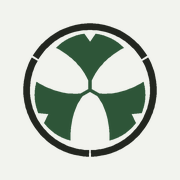
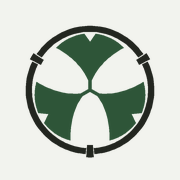
fix(brand): vòng tre có vành đốt, không còn là vòng tròn đứt nét
Anh nhận ra vòng đen hết giống thân tre. Đúng: hình chỉ là ba cung tròn
cách nhau bằng khe trống, chất "tre" trước đây do MÀU 枯竹 gánh. Bỏ màu đi
thì còn lại một vòng tròn đứt nét.

Thêm vành đốt (節) ở ba chỗ nối: một dải cung phình ra cả trong lẫn ngoài
so với thân, ngăn với thân bằng hai khe mảnh. Đây mới là dấu hiệu làm người
xem nhận ra tre, và nó đọc được ở cả cỡ 52px của đầu trang.

Đã thử bốn mức phình; chọn mức rõ nhất mà vòng vẫn chắc. Mức mảnh hơn thì
ở 52px không thấy gì, mức phình hơn nữa thì thân tre trông yếu.

Vành đốt là chỗ rộng nhất nên nó quyết định cỡ vòng: giới hạn 49,5 trên
khung 100×100. Lần thử đầu để 51,6 nên vành đốt bị cắt mất ở mép khung.

Mask của bản tự vẽ nét ở trang chủ nới ra theo (r 46,6 → 45, nét 10 → 11)
để phủ hết vành đốt, không thì phần trong của đốt không hiện ra.

Favicon 16–32px giữ bản ba cung trơn (plain_gap) vì ở cỡ đó vành đốt mảnh
hơn một pixel. apple-touch-icon 180px thì dùng bản đầy đủ.

Changed region(s): [[0.1111, 0.1111, 0.8889, 0.8889]]

diff --git a/tools/brand/marks.py b/tools/brand/marks.py
@@ -35,20 +35,44 @@ def polar(angle_deg: float, radius: float) -> tuple[float, float]:
 
 
 # ── Vòng tre 竹輪 ─────────────────────────────────────────────────────────────
-def bamboo_ring(r_out: float = 49.0, r_in: float = 44.2, nodes=(-30, 90, 210), gap: float = 2.6) -> str:
-    """Ba đoạn thân tre, cách nhau bằng khe đốt (節)."""
-    half = gap / 2
+def arc_band(start: float, end: float, r_out: float, r_in: float) -> str:
+    """Một dải cung tròn, từ góc start tới góc end, dày r_out − r_in."""
+    big = 1 if end - start > 180 else 0
+    return (
+        f"M{p(*polar(start, r_out))}"
+        f"A{r_out} {r_out} 0 {big} 1 {p(*polar(end, r_out))}"
+        f"L{p(*polar(end, r_in))}"
+        f"A{r_in} {r_in} 0 {big} 0 {p(*polar(start, r_in))}Z"
+    )
+
+
+def bamboo_ring(nodes=(-30, 90, 210), r_out: float = 47.2, r_in: float = 42.8,
+                node_span: float = 3.0, node_out: float = 49.5, node_in: float = 40.6,
+                slit: float = 0.9, plain_gap: float | None = None) -> str:
+    """Vòng tre ba đốt: ba đoạn thân, mỗi chỗ nối là một vành đốt phình ra.
+
+    Vành đốt (節) chính là thứ làm người xem nhận ra đây là tre. Bản đầu chỉ có
+    ba cung tròn cách nhau bằng khe trống; hồi đó vòng mang màu tre khô nên màu
+    gánh phần "tre". Khi vòng đổi sang màu mực thì chỉ còn lại một vòng tròn
+    đứt nét, nên phải đưa cái đốt vào hình.
+
+    node_out là chỗ rộng nhất nên nó quyết định cỡ vòng: phải ≤ 49,5 vì khung
+    là 100×100, tâm (50,50), chừa nửa đơn vị cho nét khỏi chạm mép.
+
+    plain_gap: bỏ vành đốt, quay lại ba cung cách nhau bằng khe. Dùng cho
+    favicon, vì ở cỡ 16px vành đốt mảnh hơn một pixel, vẽ ra chỉ thành vệt bẩn.
+    """
+    ns = sorted(nodes)
     parts = []
-    for index, node in enumerate(sorted(nodes)):
-        start = node + half
-        end = (sorted(nodes)[index + 1] if index + 1 < len(nodes) else sorted(nodes)[0] + 360) - half
-        big = 1 if end - start > 180 else 0
-        parts.append(
-            f"M{p(*polar(start, r_out))}"
-            f"A{r_out} {r_out} 0 {big} 1 {p(*polar(end, r_out))}"
-            f"L{p(*polar(end, r_in))}"
-            f"A{r_in} {r_in} 0 {big} 0 {p(*polar(start, r_in))}Z"
-        )
+    for index, node in enumerate(ns):
+        nxt = ns[index + 1] if index + 1 < len(ns) else ns[0] + 360
+        if plain_gap is not None:
+            half = plain_gap / 2
+            parts.append(arc_band(node + half, nxt - half, r_out, r_in))
+            continue
+        # vành đốt, rồi đoạn thân tới sát vành đốt kế tiếp
+        parts.append(arc_band(node - node_span, node + node_span, node_out, node_in))
+        parts.append(arc_band(node + node_span + slit, nxt - node_span - slit, r_out, r_in))
     return "".join(parts)
 
 
@@ -112,13 +136,13 @@ def ginkgo_leaf(angle: float, apex: float = 7.0, radius: float = 34.6, spread: f
     return path
 
 
-def kamon(veins: bool = True, gap: float = 2.6, animated: bool = False) -> str:
+def kamon(veins: bool = True, plain_gap: float | None = None, animated: bool = False) -> str:
     """Kamon dạng nhiều path: vòng tre và ba lá tách riêng.
 
     Bản animated dùng cho trang chủ: vòng tre hiện dần nhờ mask là một đường
     tròn nét liền có stroke-dasharray, ba lá lớn dần từ tâm ra.
     """
-    ring = f'<path class="ring" fill-rule="evenodd" d="{bamboo_ring(gap=gap)}"/>'
+    ring = f'<path class="ring" fill-rule="evenodd" d="{bamboo_ring(plain_gap=plain_gap)}"/>'
     leaves = "".join(
         f'<path class="leaf" style="--delay:{0.75 + index * 0.16:.2f}s" fill-rule="evenodd" '
         f'd="{ginkgo_leaf(angle, veins=veins)}"/>'
@@ -129,7 +153,7 @@ def kamon(veins: bool = True, gap: float = 2.6, animated: bool = False) -> str:
 
     mask = (
         '<defs><mask id="gen-ring-draw" maskUnits="userSpaceOnUse" x="0" y="0" width="100" height="100">'
-        '<circle class="ring-mask" cx="50" cy="50" r="46.6" fill="none" stroke="#fff" stroke-width="10" '
+        '<circle class="ring-mask" cx="50" cy="50" r="45" fill="none" stroke="#fff" stroke-width="11" '
         'pathLength="1" transform="rotate(-90 50 50)"/></mask></defs>'
     )
     return svg(mask + f'<g mask="url(#gen-ring-draw)">{ring}</g>' + leaves, "Kamon của Gen", "kamon-draw")
@@ -254,13 +278,13 @@ KAMON_COLORS = {"light": ("#22251f", "#2e5538"), "dark": ("#daddd3", "#8fbf95")}
 
 
 def favicon() -> str:
-    """Cỡ favicon: gân lá và khe đốt nhỏ hơn một pixel nên bỏ đi cho nét sạch."""
+    """Cỡ favicon: gân lá và vành đốt nhỏ hơn một pixel nên bỏ đi cho nét sạch."""
     (ring_l, leaf_l), (ring_d, leaf_d) = KAMON_COLORS["light"], KAMON_COLORS["dark"]
     style = (
         f"<style>.ring{{fill:{ring_l}}}.leaf{{fill:{leaf_l}}}"
         f"@media (prefers-color-scheme:dark){{.ring{{fill:{ring_d}}}.leaf{{fill:{leaf_d}}}}}</style>"
     )
-    return kamon(veins=False, gap=1.4).replace("<g ", style + "<g ", 1)
+    return kamon(veins=False, plain_gap=1.4).replace("<g ", style + "<g ", 1)
 
 
 def main() -> None:

diff --git a/tools/brand/raster.py b/tools/brand/raster.py
@@ -154,13 +154,15 @@ def paint_kamon(svg: str, size: int, supersample: int = 4) -> Image.Image:
 def apple_touch_icon() -> None:
     size, pad = 180, 22
     icon = Image.new("RGBA", (size, size), SHOJI)
-    kamon = paint_kamon(marks.kamon(veins=False, gap=1.8), size - 2 * pad)
+    # 180px nên vành đốt vẫn đọc được: dùng bản đầy đủ, chỉ bỏ gân lá
+    kamon = paint_kamon(marks.kamon(veins=False), size - 2 * pad)
     icon.alpha_composite(kamon, (pad, pad))
     icon.convert("RGB").save(ROOT / "static/apple-touch-icon.png", optimize=True)
 
 
 def favicon_ico() -> None:
-    svg = marks.kamon(veins=False, gap=1.4)
+    # 16 và 32px: vành đốt mảnh hơn một pixel nên bỏ, giống favicon.svg
+    svg = marks.kamon(veins=False, plain_gap=1.4)
     frames = [paint_kamon(svg, s, supersample=8) for s in (32, 16)]
     frames[0].save(ROOT / "static/favicon.ico", sizes=[(32, 32), (16, 16)], append_images=frames[1:])
 

diff --git a/README.md b/README.md
@@ -771,6 +771,10 @@ chuột trên web.
 - **Không làm 七十二候.** Claude từng tự đề xuất rồi ghi nhầm là đã duyệt;
   đã gỡ ở commit `402a743`. Đừng đề xuất lại.
 - **Màu nhấn đổi theo 24 tiết khí thì giữ** — cái này có trong "Yêu cầu.md".
+- **Vòng tre của kamon có ba vành đốt (節)**, không còn là ba cung tròn cách
+  nhau bằng khe trống. Hồi vòng mang màu tre khô thì màu gánh phần "tre"; đổi
+  sang màu mực thì hình phải tự nói được, nên đưa cái đốt vào. Favicon 16–32px
+  vẫn dùng bản ba cung trơn vì ở cỡ đó vành đốt mảnh hơn một pixel.
 - **Vòng tre của kamon mang màu mực 墨**, lá vẫn xanh đậm 常磐. Anh chọn mực
   trong bốn phương án đã đưa (vàng, mực, tre khô, xanh nhạt); trước đó là tre
   khô 枯竹 #9c8352. Đổi màu thì sửa `--kamon-ring` trong main.css VÀ
